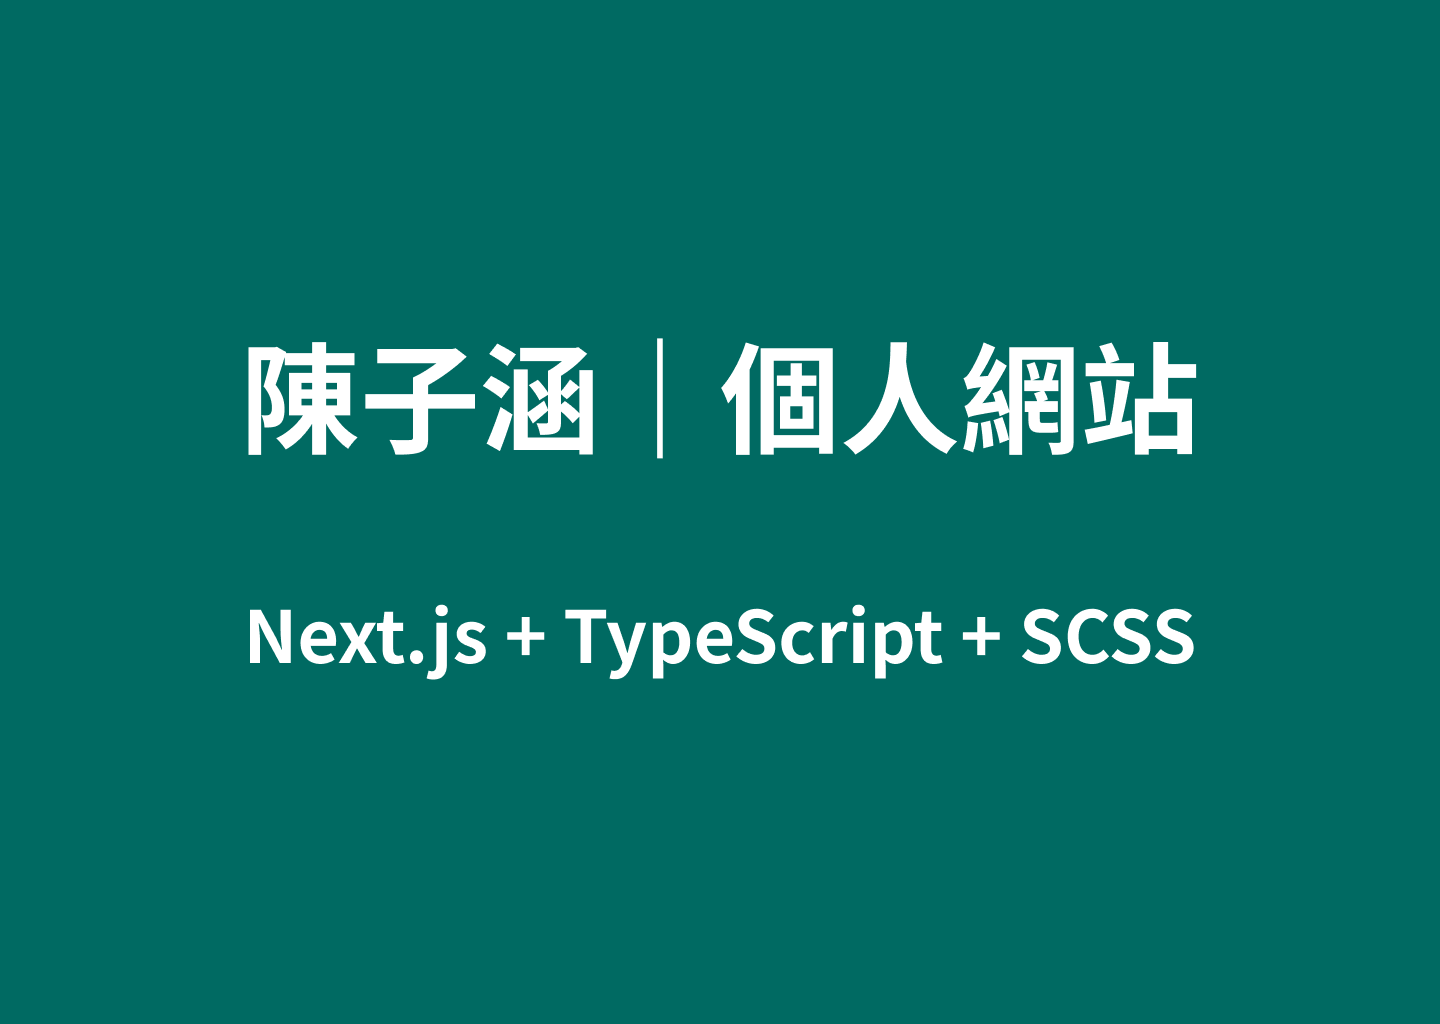
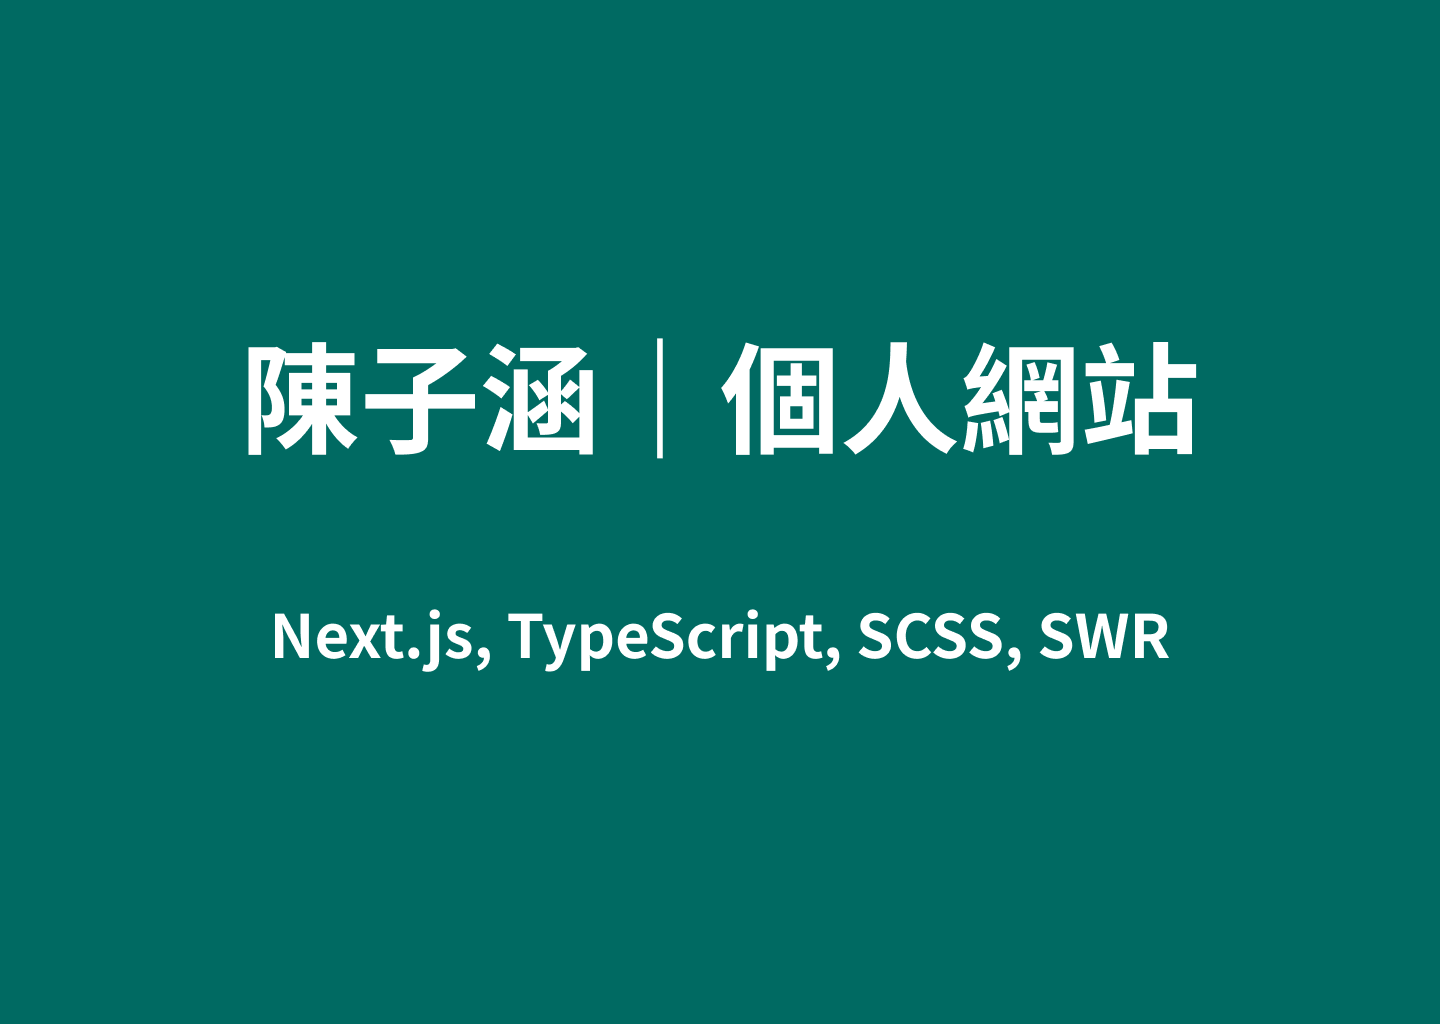
Index page cards DONE

Changed region(s): [[0.1562, 0.5938, 0.8438, 0.6562]]

diff --git a/src/pages/index.tsx b/src/pages/index.tsx
@@ -22,15 +22,48 @@ function Project() {
 		<GridSection id="project">
 			<Text type="h2">專案</Text>
 			<Grid marginTop>
+				<Card image="/images/personal-website.png"
+					alt="個人網站" title="個人網站"
+					info="展示專案、文章與經歷的網站"
+					tag="Next.js, TypeScript, SCSS, SWR"
+					button="效能報告"
+					href="https://pagespeed.web.dev/analysis?url=https%3A%2F%2Ftzuhanchen.vercel.app%2F"
+					newtab />
 				<Card image="/images/distraction-loves-me.png"
 					alt="數位分心" title="數位分心"
-					info="數位分心教材與研究團隊的網站" button="瀏覽網站"
+					info="數位分心教材與研究團隊的網站"
+					tag="React, Bootstrap, Fetch"
+					button="瀏覽網站"
 					href="https://distractionlovesme.lab.nycu.edu.tw/"
 					newtab />
 				<Card image="/images/teamie.png"
 					alt="Teamie" title="Teamie"
-					info="開發中的專案團隊媒合平台" button="瀏覽網站"
-					href="https://teamie.tw/"
+					info="開發中的專案團隊媒合平台"
+					tag="Next.js, TypeScript, SCSS"
+					button="敬請期待"
+					href="/"
+					newtab />
+				
+				<Card image="/images/personal-website-old.png"
+					alt="個人網站 (舊)" title="個人網站 (舊)"
+					info="展示專案、文章與經歷的網站"
+					tag="JavaScript, SCSS, HTML"
+					button="前往舊站"
+					href="https://tzuhanchen.github.io"
+					newtab />
+				<Card image="/images/max-value.png"
+					alt="珍食力" title="珍食力"
+					info="協助使用者充分運用食材的手機應用程式原型"
+					tag="Miro, Figma"
+					button="作品說明"
+					href="https://tzuhanchen.github.io/max-value.html"
+					newtab />
+				<Card image="/images/medical-forum.png"
+					alt="醫療論壇" title="醫療論壇"
+					info="供使用者發文討論醫療相關議題的網站"
+					tag="Miro, PHP, MySQL"
+					button="作品說明"
+					href="https://tzuhanchen.github.io/medical-forum.html"
 					newtab />
 			</Grid>
 		</GridSection>
@@ -42,14 +75,25 @@ function Practice() {
 		<GridSection id="practice">
 			<Text type="h2">練習</Text>
 			<Grid marginTop>
+				<Card image="/images/nextjs-blog.png"
+					alt="部落格" title="部落格"
+					info="練習各種網頁渲染方式的網站"
+					tag="Next.js, TypeScript, CSS, Markdown"
+					button="作品展示"
+					href="https://nextjs-blog-tzuhanchen.vercel.app"
+					newtab />
 				<Card image="/images/tic-tac-toe.png"
 					alt="井字遊戲" title="井字遊戲"
-					info="可以穿梭時空的井字遊戲" button="作品展示"
+					info="可以穿梭時空的井字遊戲"
+					tag="React"
+					button="作品展示"
 					href="https://tzuhanchen.github.io/tic-tac-toe"
 					newtab />
 				<Card image="/images/api-connection.png"
 					alt="API 串接" title="API 串接"
-					info="利用三種方法隨機讀取三種資料" button="作品展示"
+					info="利用三種方法隨機讀取三種資料"
+					tag="XHR, Fetch, Axios"
+					button="作品展示"
 					href="https://tzuhanchen.github.io/api-connection"
 					newtab />
 			</Grid>
@@ -64,7 +108,7 @@ function Article() {
 			<Grid marginTop>
 				<Card image="/images/arete-internship.png"
 					alt="亞瑞特實習" title="亞瑞特實習"
-					info="在亞瑞特實習的期間撰寫的實習日誌與任務成果"
+					info="實習日誌與任務成果"
 					button="閱讀紀錄"
 					href="https://tzuhanchen.github.io/arete-internship"
 					newtab/>
